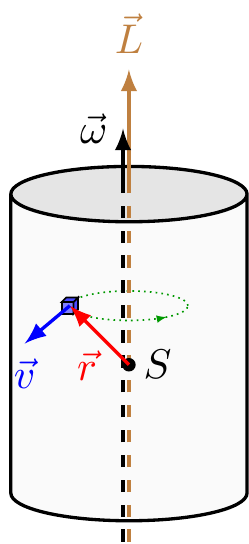
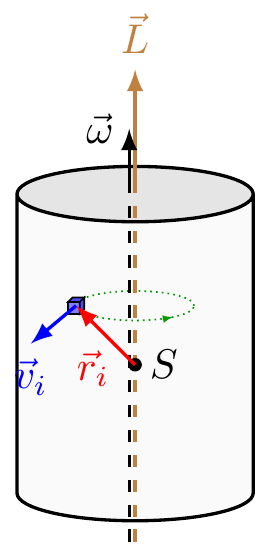
adding index

diff --git a/mechanics/rotation-zylinder/rotation-zylinder.tex b/mechanics/rotation-zylinder/rotation-zylinder.tex
@@ -35,7 +35,7 @@
   \draw[fill=blue!70] (C) -- ++(0,0,-\cubez) -- ++(0,-\cubey,0) -- ++(0,0,\cubez) -- cycle
                       (C) -- ++(-\cubex,0,0) -- ++(0,0,-\cubez) -- ++(\cubex,0,0) -- cycle;
   % arrows
-  \draw[->,red,thick] (CMS) -- node[below,xshift=-0.3em] {$\vec{r}$} (R);
-  \draw[->,blue,thick] (R) -- +(220:0.5) node[below] {$\vec{v}$};
+  \draw[->,red,thick] (CMS) -- node[below,xshift=-0.3em] {$\vec{r}_i$} (R);
+  \draw[->,blue,thick] (R) -- +(220:0.5) node[below] {$\vec{v}_i$};
 \end{tikzpicture}
 \end{document}

diff --git a/mechanics/rotation-zylinder/rotation-zylinder_inverted.tex b/mechanics/rotation-zylinder/rotation-zylinder_inverted.tex
@@ -44,7 +44,7 @@
   \draw[fill=blue!70] (C) -- ++(0,0,-\cubez) -- ++(0,-\cubey,0) -- ++(0,0,\cubez) -- cycle
                       (C) -- ++(-\cubex,0,0) -- ++(0,0,-\cubez) -- ++(\cubex,0,0) -- cycle;
   % arrows
-  \draw[->,red,thick] (CMS) -- node[below,xshift=-0.3em] {$\vec{r}$} (R);
-  \draw[->,blue,thick] (R) -- +(220:0.5) node[below] {$\vec{v}$};
+  \draw[->,red,thick] (CMS) -- node[below,xshift=-0.3em] {$\vec{r}_i$} (R);
+  \draw[->,blue,thick] (R) -- +(220:0.5) node[below] {$\vec{v}_i$};
 \end{tikzpicture}
 \end{document}

diff --git a/mechanics.md b/mechanics.md
@@ -932,8 +932,8 @@
   \draw[fill=blue!70] (C) -- ++(0,0,-\cubez) -- ++(0,-\cubey,0) -- ++(0,0,\cubez) -- cycle
                       (C) -- ++(-\cubex,0,0) -- ++(0,0,-\cubez) -- ++(\cubex,0,0) -- cycle;
   % arrows
-  \draw[->,red,thick] (CMS) -- node[below,xshift=-0.3em] {$\vec{r}$} (R);
-  \draw[->,blue,thick] (R) -- +(220:0.5) node[below] {$\vec{v}$};
+  \draw[->,red,thick] (CMS) -- node[below,xshift=-0.3em] {$\vec{r}_i$} (R);
+  \draw[->,blue,thick] (R) -- +(220:0.5) node[below] {$\vec{v}_i$};
 \end{tikzpicture}
 \end{document}
 ~~~
@@ -2615,8 +2615,8 @@
   \draw[fill=blue!70] (C) -- ++(0,0,-\cubez) -- ++(0,-\cubey,0) -- ++(0,0,\cubez) -- cycle
                       (C) -- ++(-\cubex,0,0) -- ++(0,0,-\cubez) -- ++(\cubex,0,0) -- cycle;
   % arrows
-  \draw[->,red,thick] (CMS) -- node[below,xshift=-0.3em] {$\vec{r}$} (R);
-  \draw[->,blue,thick] (R) -- +(220:0.5) node[below] {$\vec{v}$};
+  \draw[->,red,thick] (CMS) -- node[below,xshift=-0.3em] {$\vec{r}_i$} (R);
+  \draw[->,blue,thick] (R) -- +(220:0.5) node[below] {$\vec{v}_i$};
 \end{tikzpicture}
 \end{document}
 ~~~
